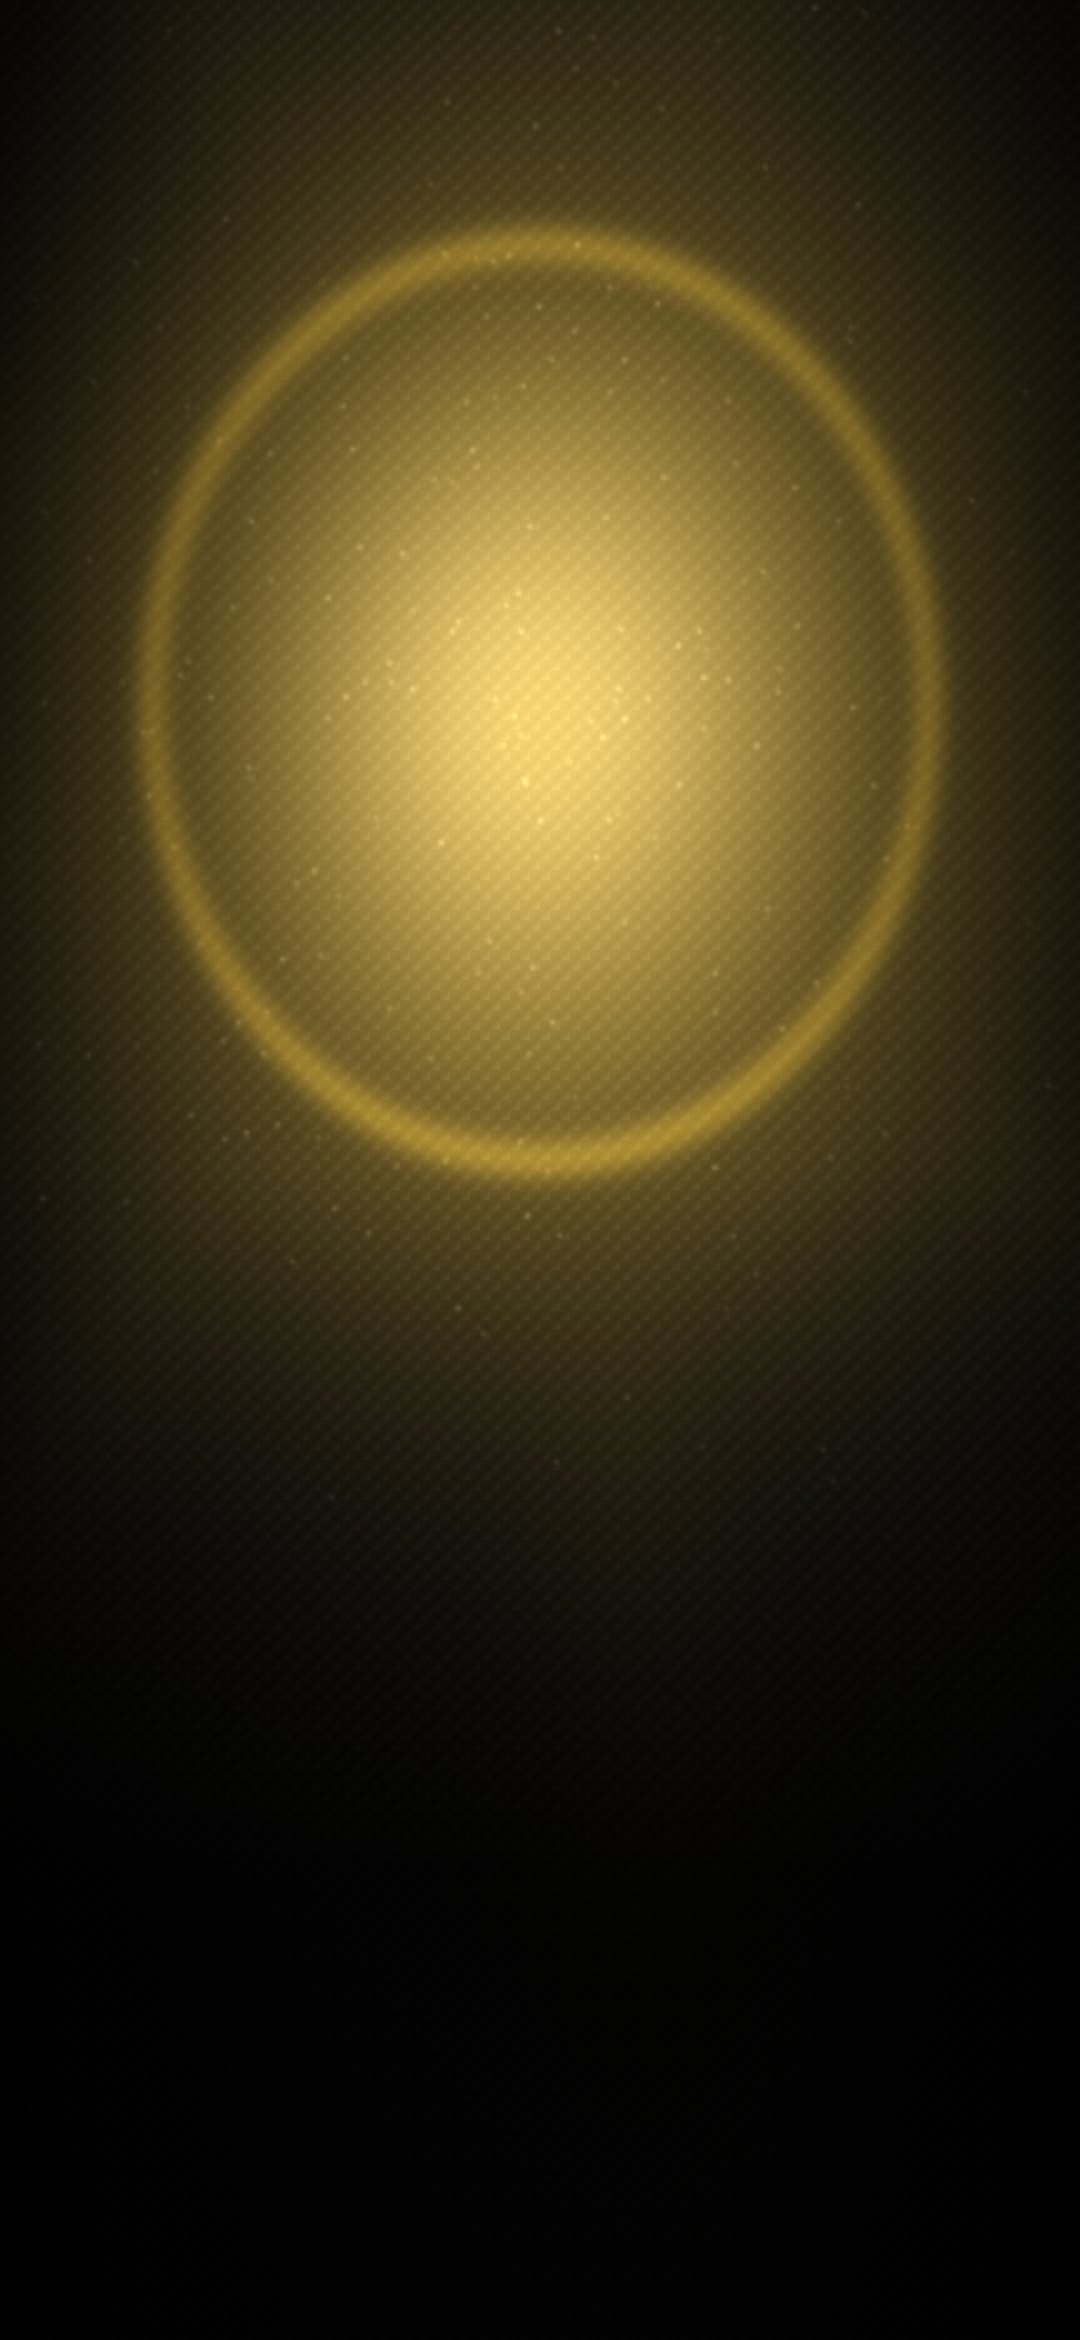
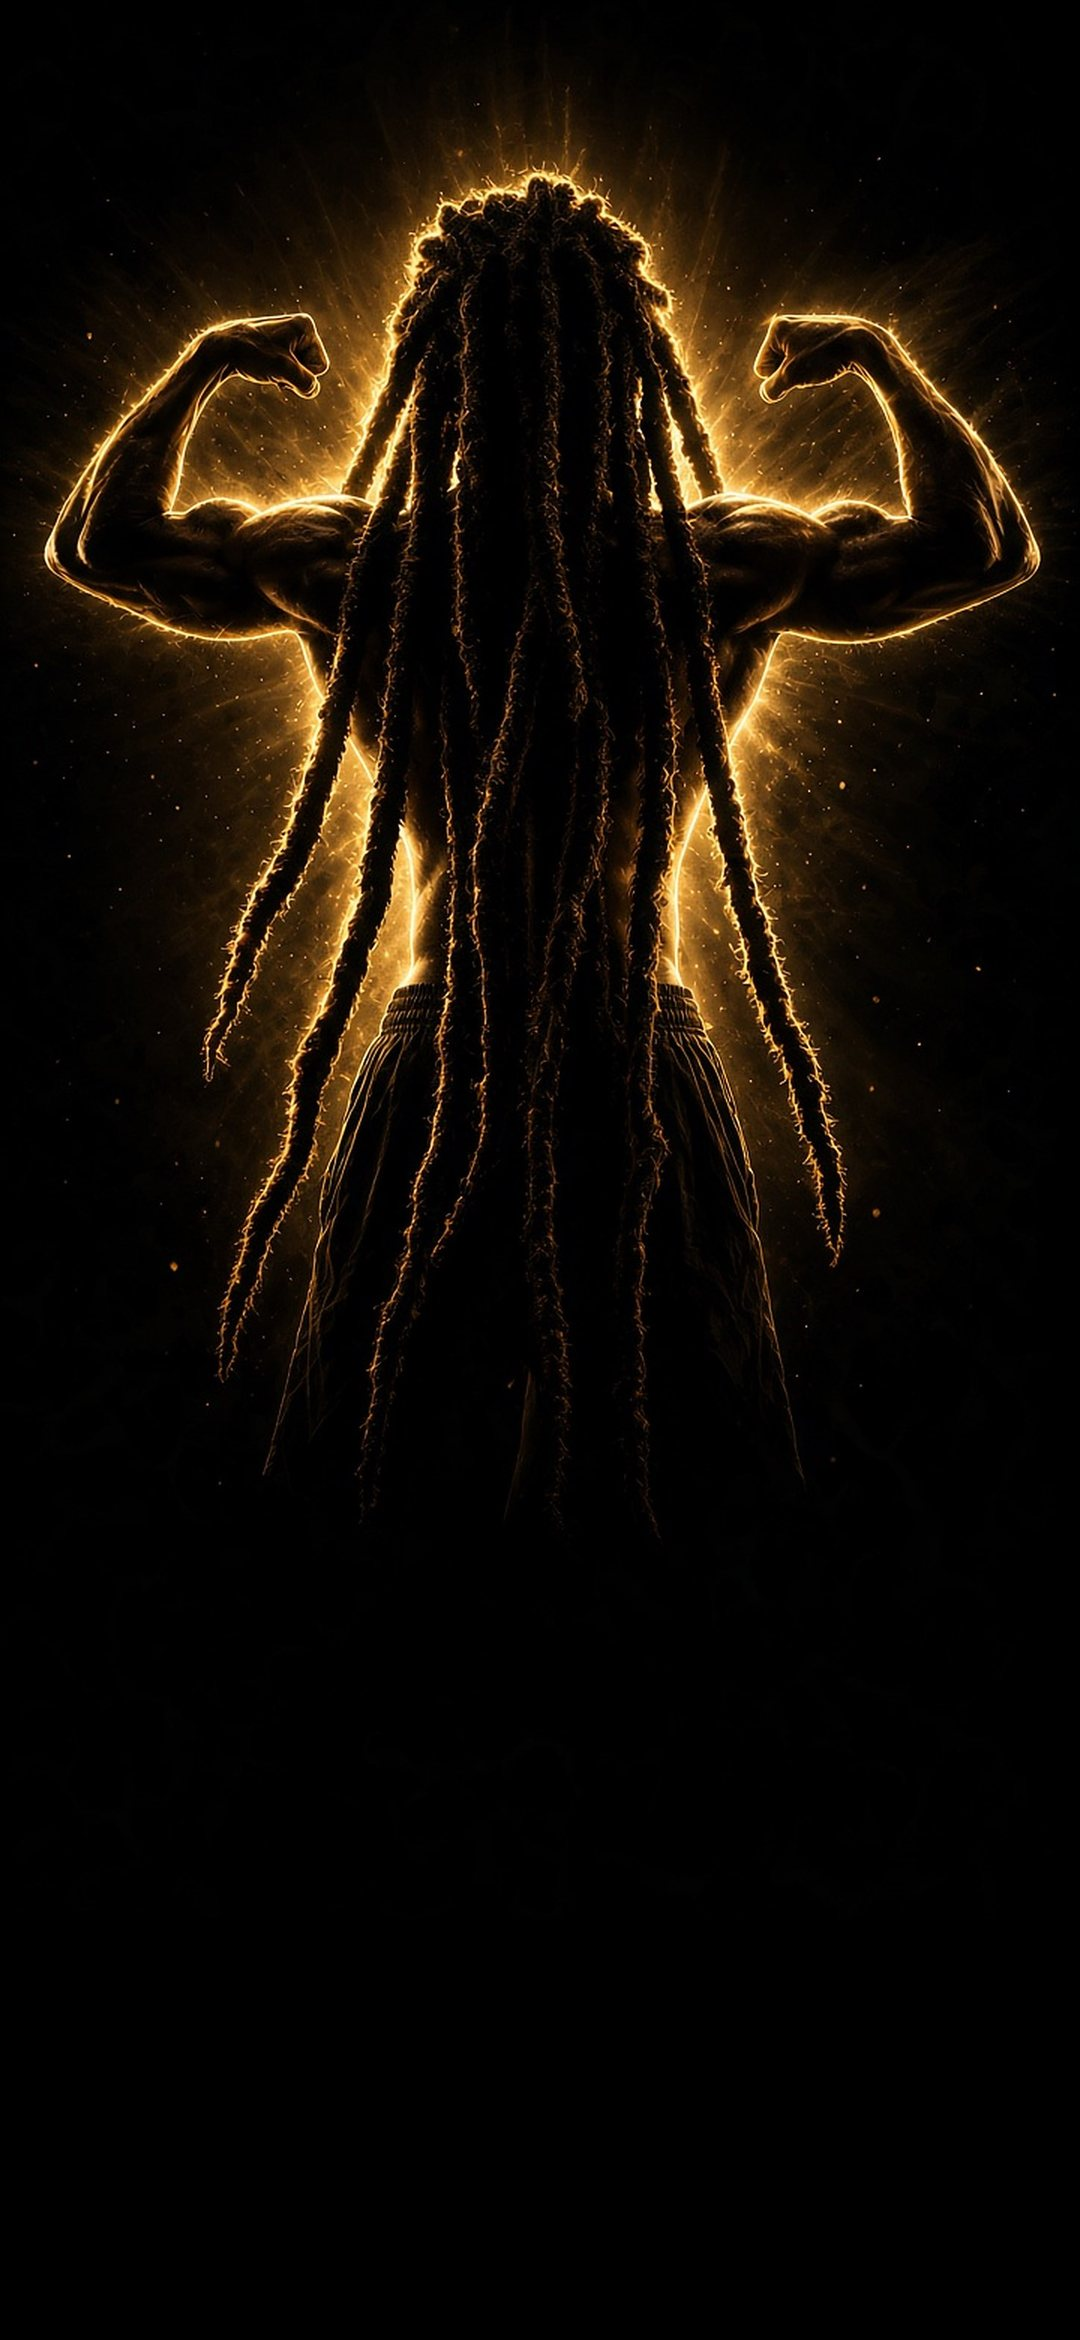
Use the gold-outlined locs silhouette as the sign-in cover
Claude-Session: https://claude.ai/code/session_01TDACj4kdtSkXcTkVDLpZh5

diff --git a/src/components/auth.tsx b/src/components/auth.tsx
@@ -190,8 +190,8 @@ export function AuthScreen() {
       <ImageBackground source={COVER} resizeMode="cover" style={StyleSheet.absoluteFill} accessible={false} />
       <LinearGradient
         pointerEvents="none"
-        colors={['rgba(11,11,13,0)', 'rgba(11,11,13,0.72)', 'rgba(11,11,13,0.96)', C.bg]}
-        locations={[0, 0.42, 0.62, 0.8]}
+        colors={['rgba(11,11,13,0)', 'rgba(11,11,13,0)', 'rgba(11,11,13,0.78)', 'rgba(11,11,13,0.95)', C.bg]}
+        locations={[0, 0.3, 0.5, 0.66, 0.82]}
         style={StyleSheet.absoluteFill}
       />
       <KeyboardAvoidingView style={{ flex: 1 }} behavior={Platform.OS === 'ios' ? 'padding' : undefined}>
